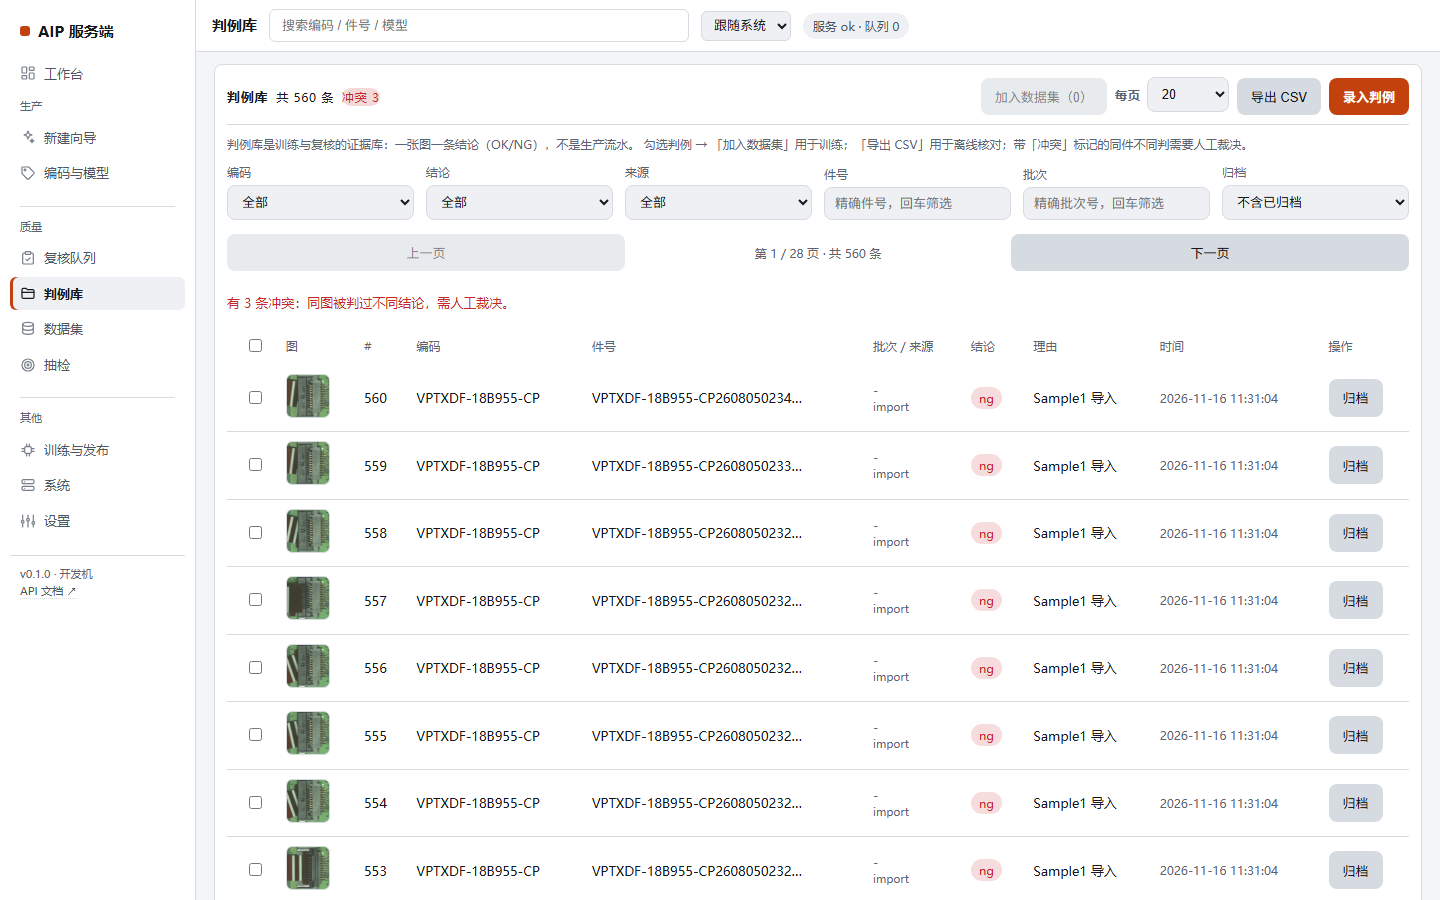
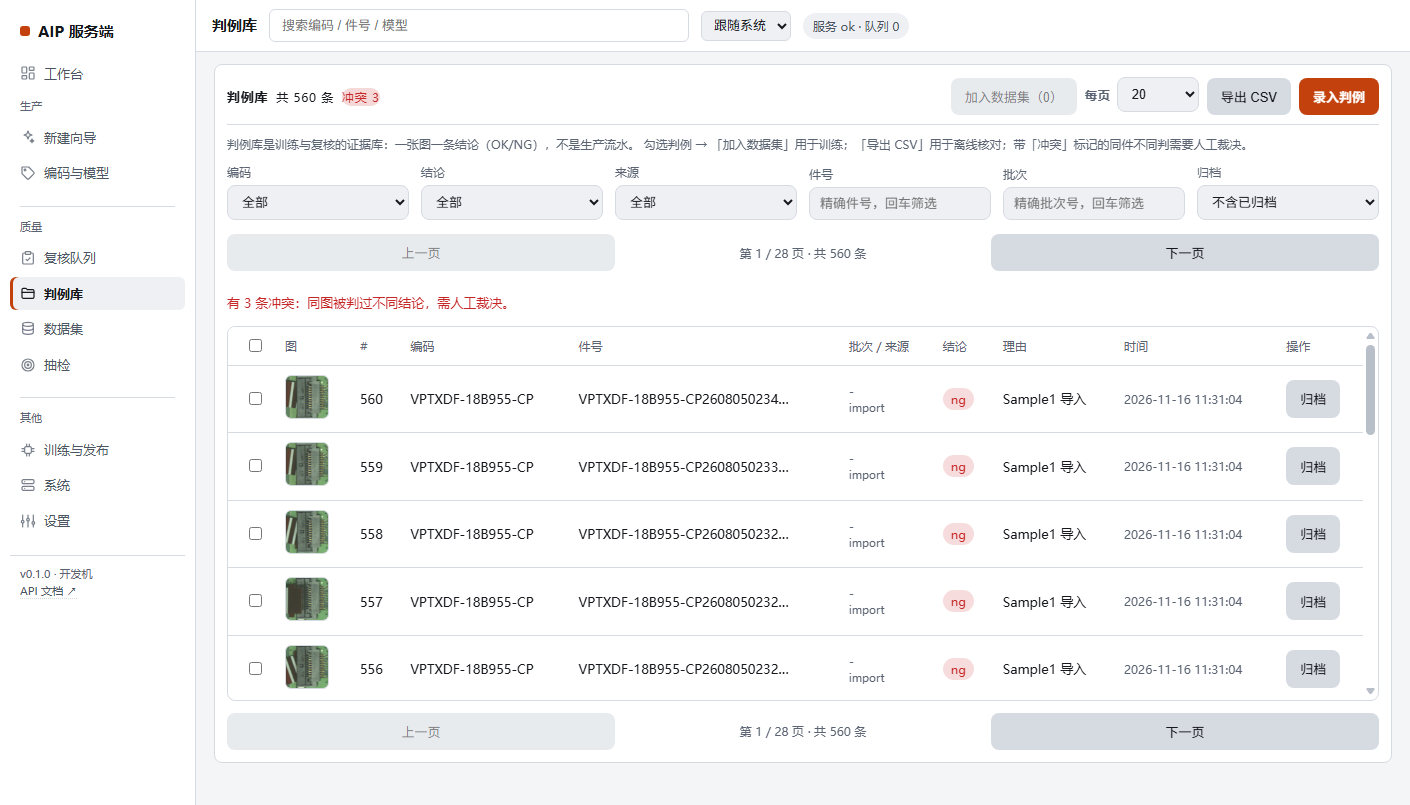
fix: 判例库页面定高，表格内部滚动；顶部/底部翻页常驻首屏

diff --git a/aip/web/admin.html b/aip/web/admin.html
@@ -274,6 +274,9 @@
     padding:7px 12px;font-size:13px;cursor:pointer}
   .page-tab:hover{border-color:var(--brand)}
   .page-tab.on{background:var(--t1);color:var(--g1);border-color:var(--t1);font-weight:600}
+  .cases-table{max-height:calc(100vh - 430px);min-height:240px;border:1px solid var(--g3);border-radius:8px}
+  .cases-table table{margin:0}
+  .cases-table thead th{position:sticky;top:0;z-index:1;background:var(--g1)}
   .next-step{margin-top:12px;background:var(--g2);border:1px solid var(--g3);border-radius:6px;padding:10px 12px;font-size:13px}
   .next-step b{color:var(--t1)}
   .storage-tree summary{cursor:pointer;font-size:13px;color:var(--t2);margin-top:4px}
@@ -2430,7 +2433,7 @@ async function renderCases() {
       </div>` : ""}
 
       ${rows.length === 0 ? `<div class="empty">还没有判例。<b>为什么要有</b>：判例是训练数据来源，也是"这张为什么这么判"的证据。</div>` : `
-      <table><caption class="sr-only">判例列表</caption>
+      <div class="table-wrap cases-table"><table><caption class="sr-only">判例列表</caption>
         <thead><tr>
           <th scope="col"><input type="checkbox" id="chkAll" aria-label="全选当前页"></th>
           <th scope="col">图</th><th scope="col">#</th><th scope="col">编码</th><th scope="col">件号</th><th scope="col">批次 / 来源</th><th scope="col">结论</th>
@@ -2450,7 +2453,7 @@ async function renderCases() {
           <td>${c.archived_at
             ? `<button class="ghost" data-restore-case="${c.id}">取消归档</button>`
             : `<button class="ghost" data-archive-case="${c.id}">归档</button>`}</td>
-        </tr>`).join("")}</tbody></table>
+        </tr>`).join("")}</tbody></table></div>
       <div class="row" style="margin-top:12px;align-items:center">
         <button class="ghost" id="casePrev" ${caseState.page === 0 ? "disabled" : ""}>上一页</button>
         <span class="muted" style="flex:1;text-align:center">第 ${caseState.page + 1} / ${pages} 页 · 共 ${total} 条</span>
